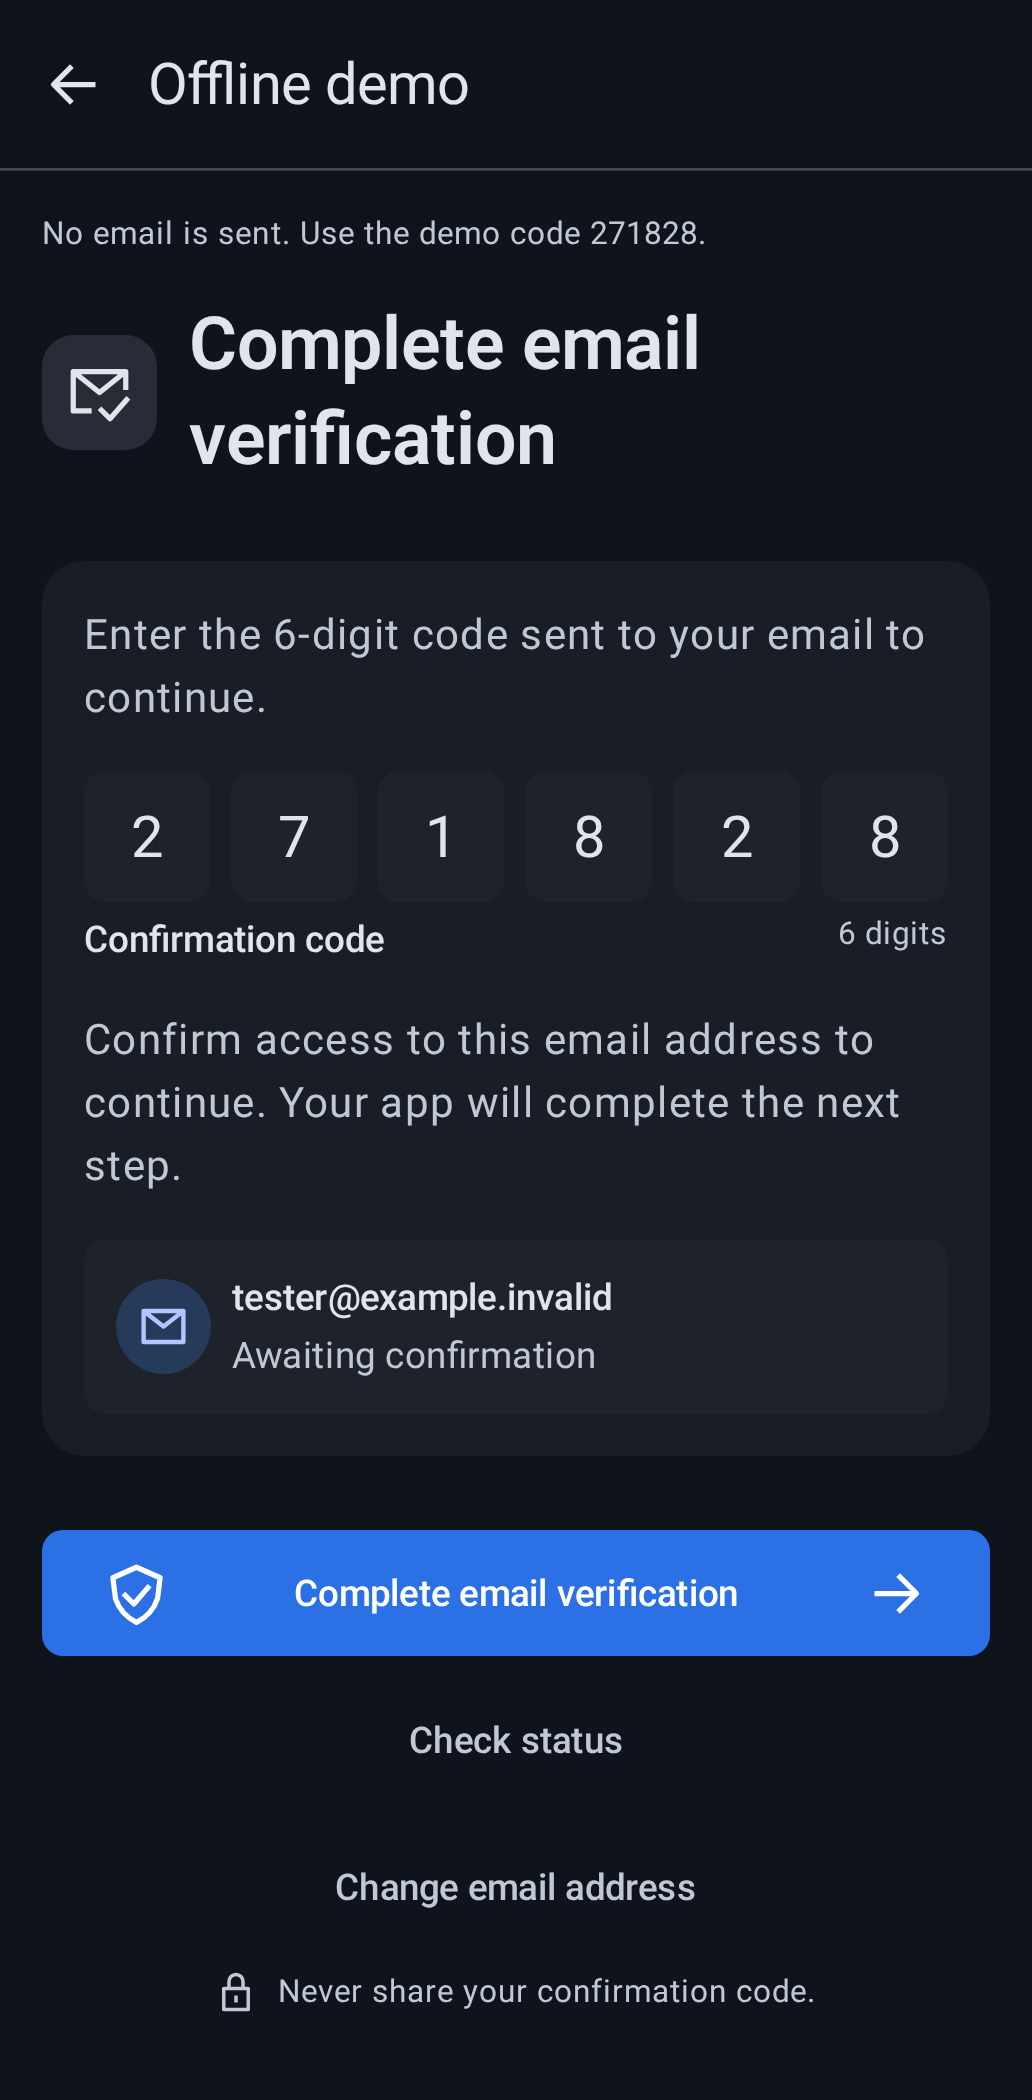
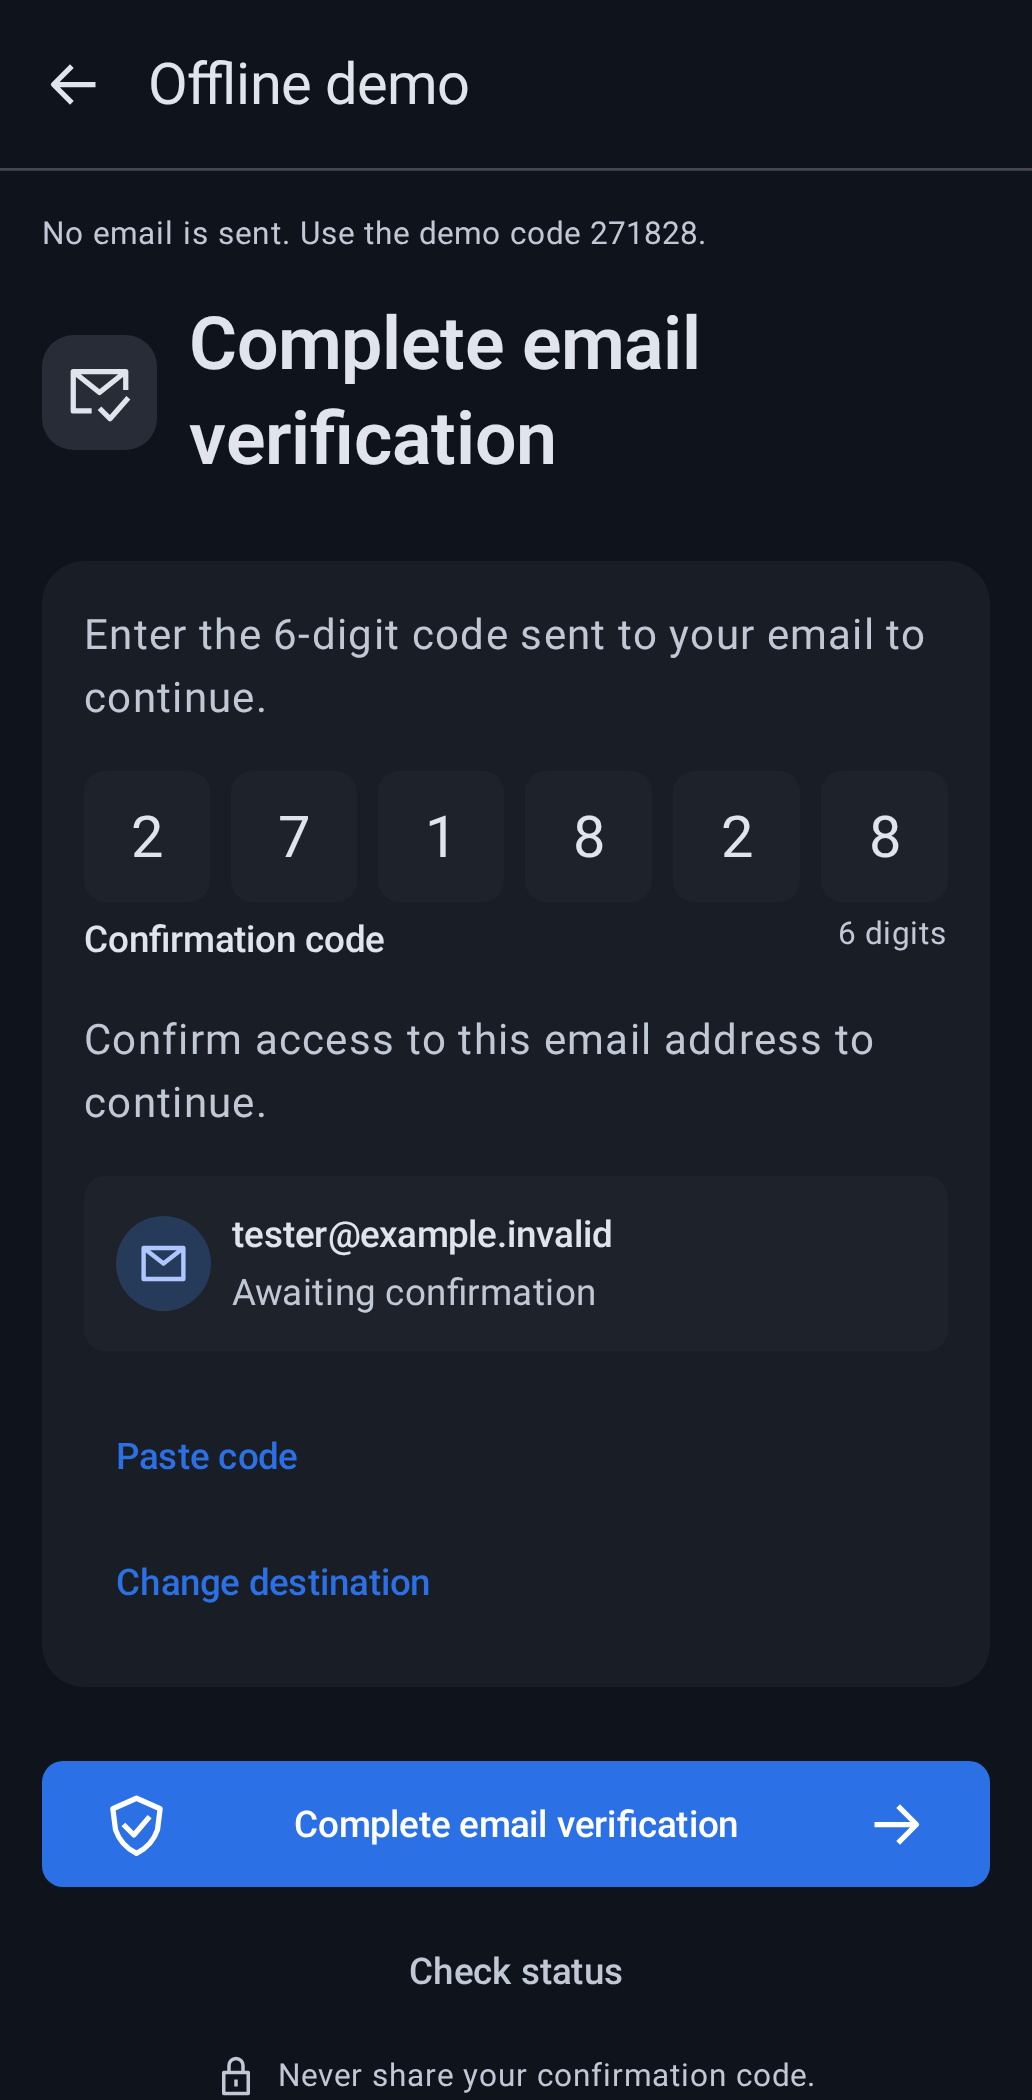
docs: refresh restored actions and code focus previews

diff --git a/docs/agents/demo.md b/docs/agents/demo.md
@@ -34,7 +34,8 @@ These reviewed Compose-rendered previews show the production catalog at 393 × 8
 
 These synthetic previews show a complete local example code before submission. The recipient stays
 **Awaiting confirmation** until the controller advances. The blue/slate palette belongs to the demo;
-the reusable widget inherits its host theme. [Capture provenance](../screenshots/manual-code.json).
+the reusable widget inherits its host theme. **Paste code** and **Change destination** sit below
+the recipient card. Tapping a digit selects it, and the highlight follows typing. [Capture provenance](../screenshots/manual-code.json).
 
 Choose **Open offline demo**, leave the sample address in place, tap **Send code**, then enter `271828`. Enter a different six-digit code first to see the error and retry state. Offline mode uses an in-memory fixture and sends no email. **Start over** starts another attempt; **Back to demo menu** and system Back leave the flow.
 
